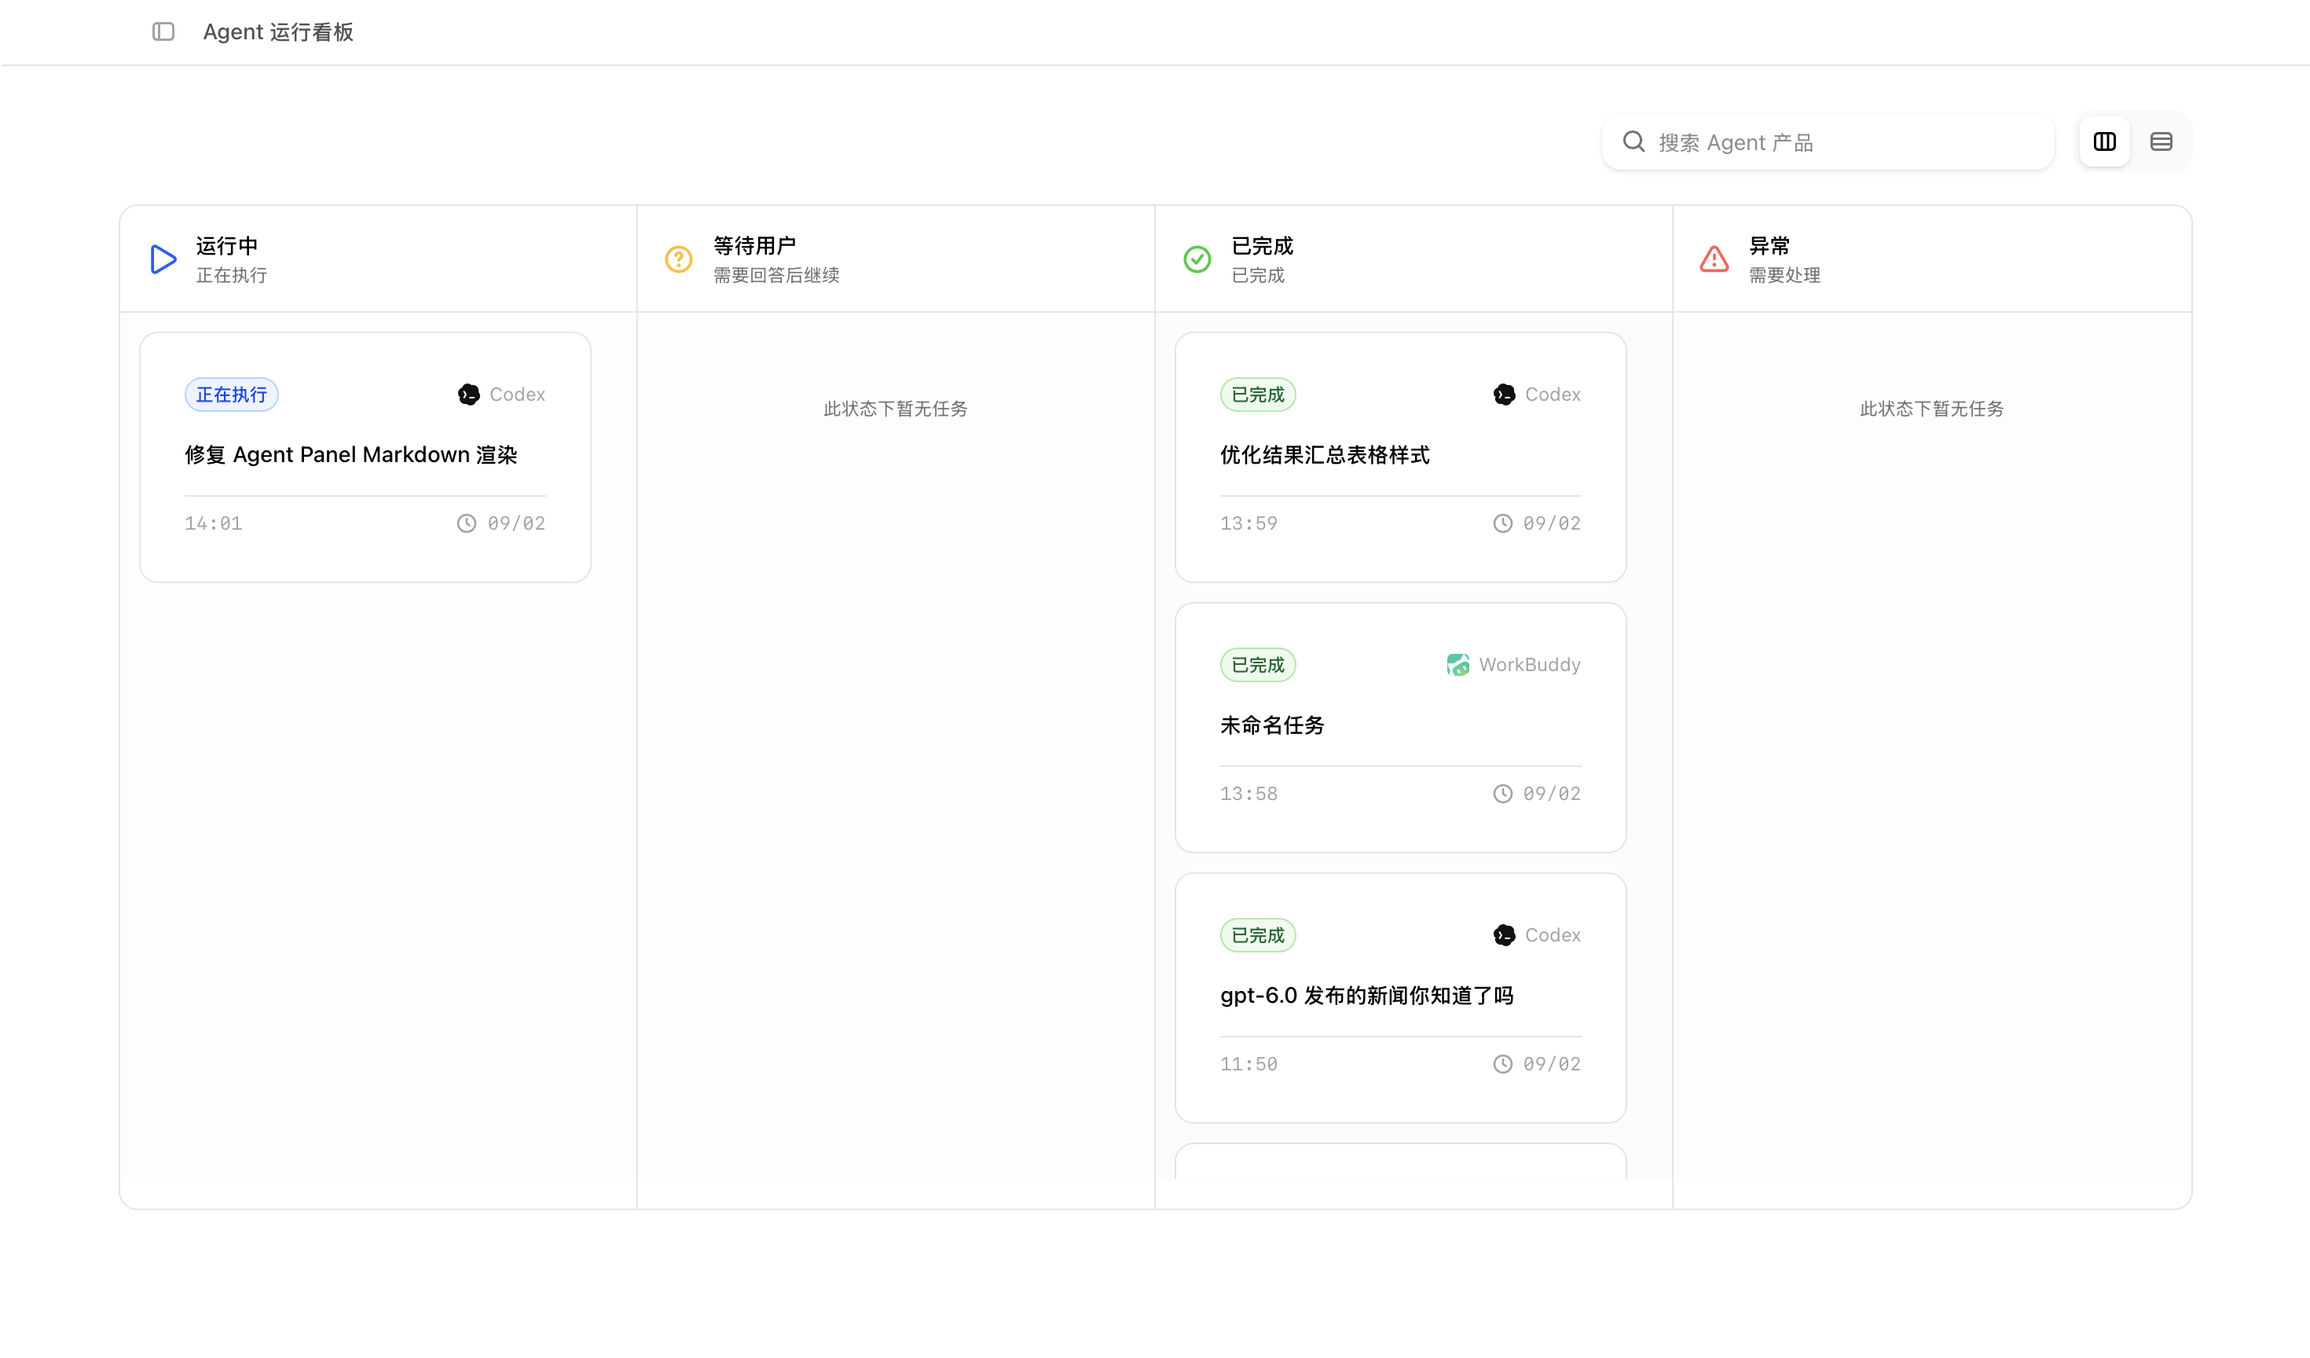
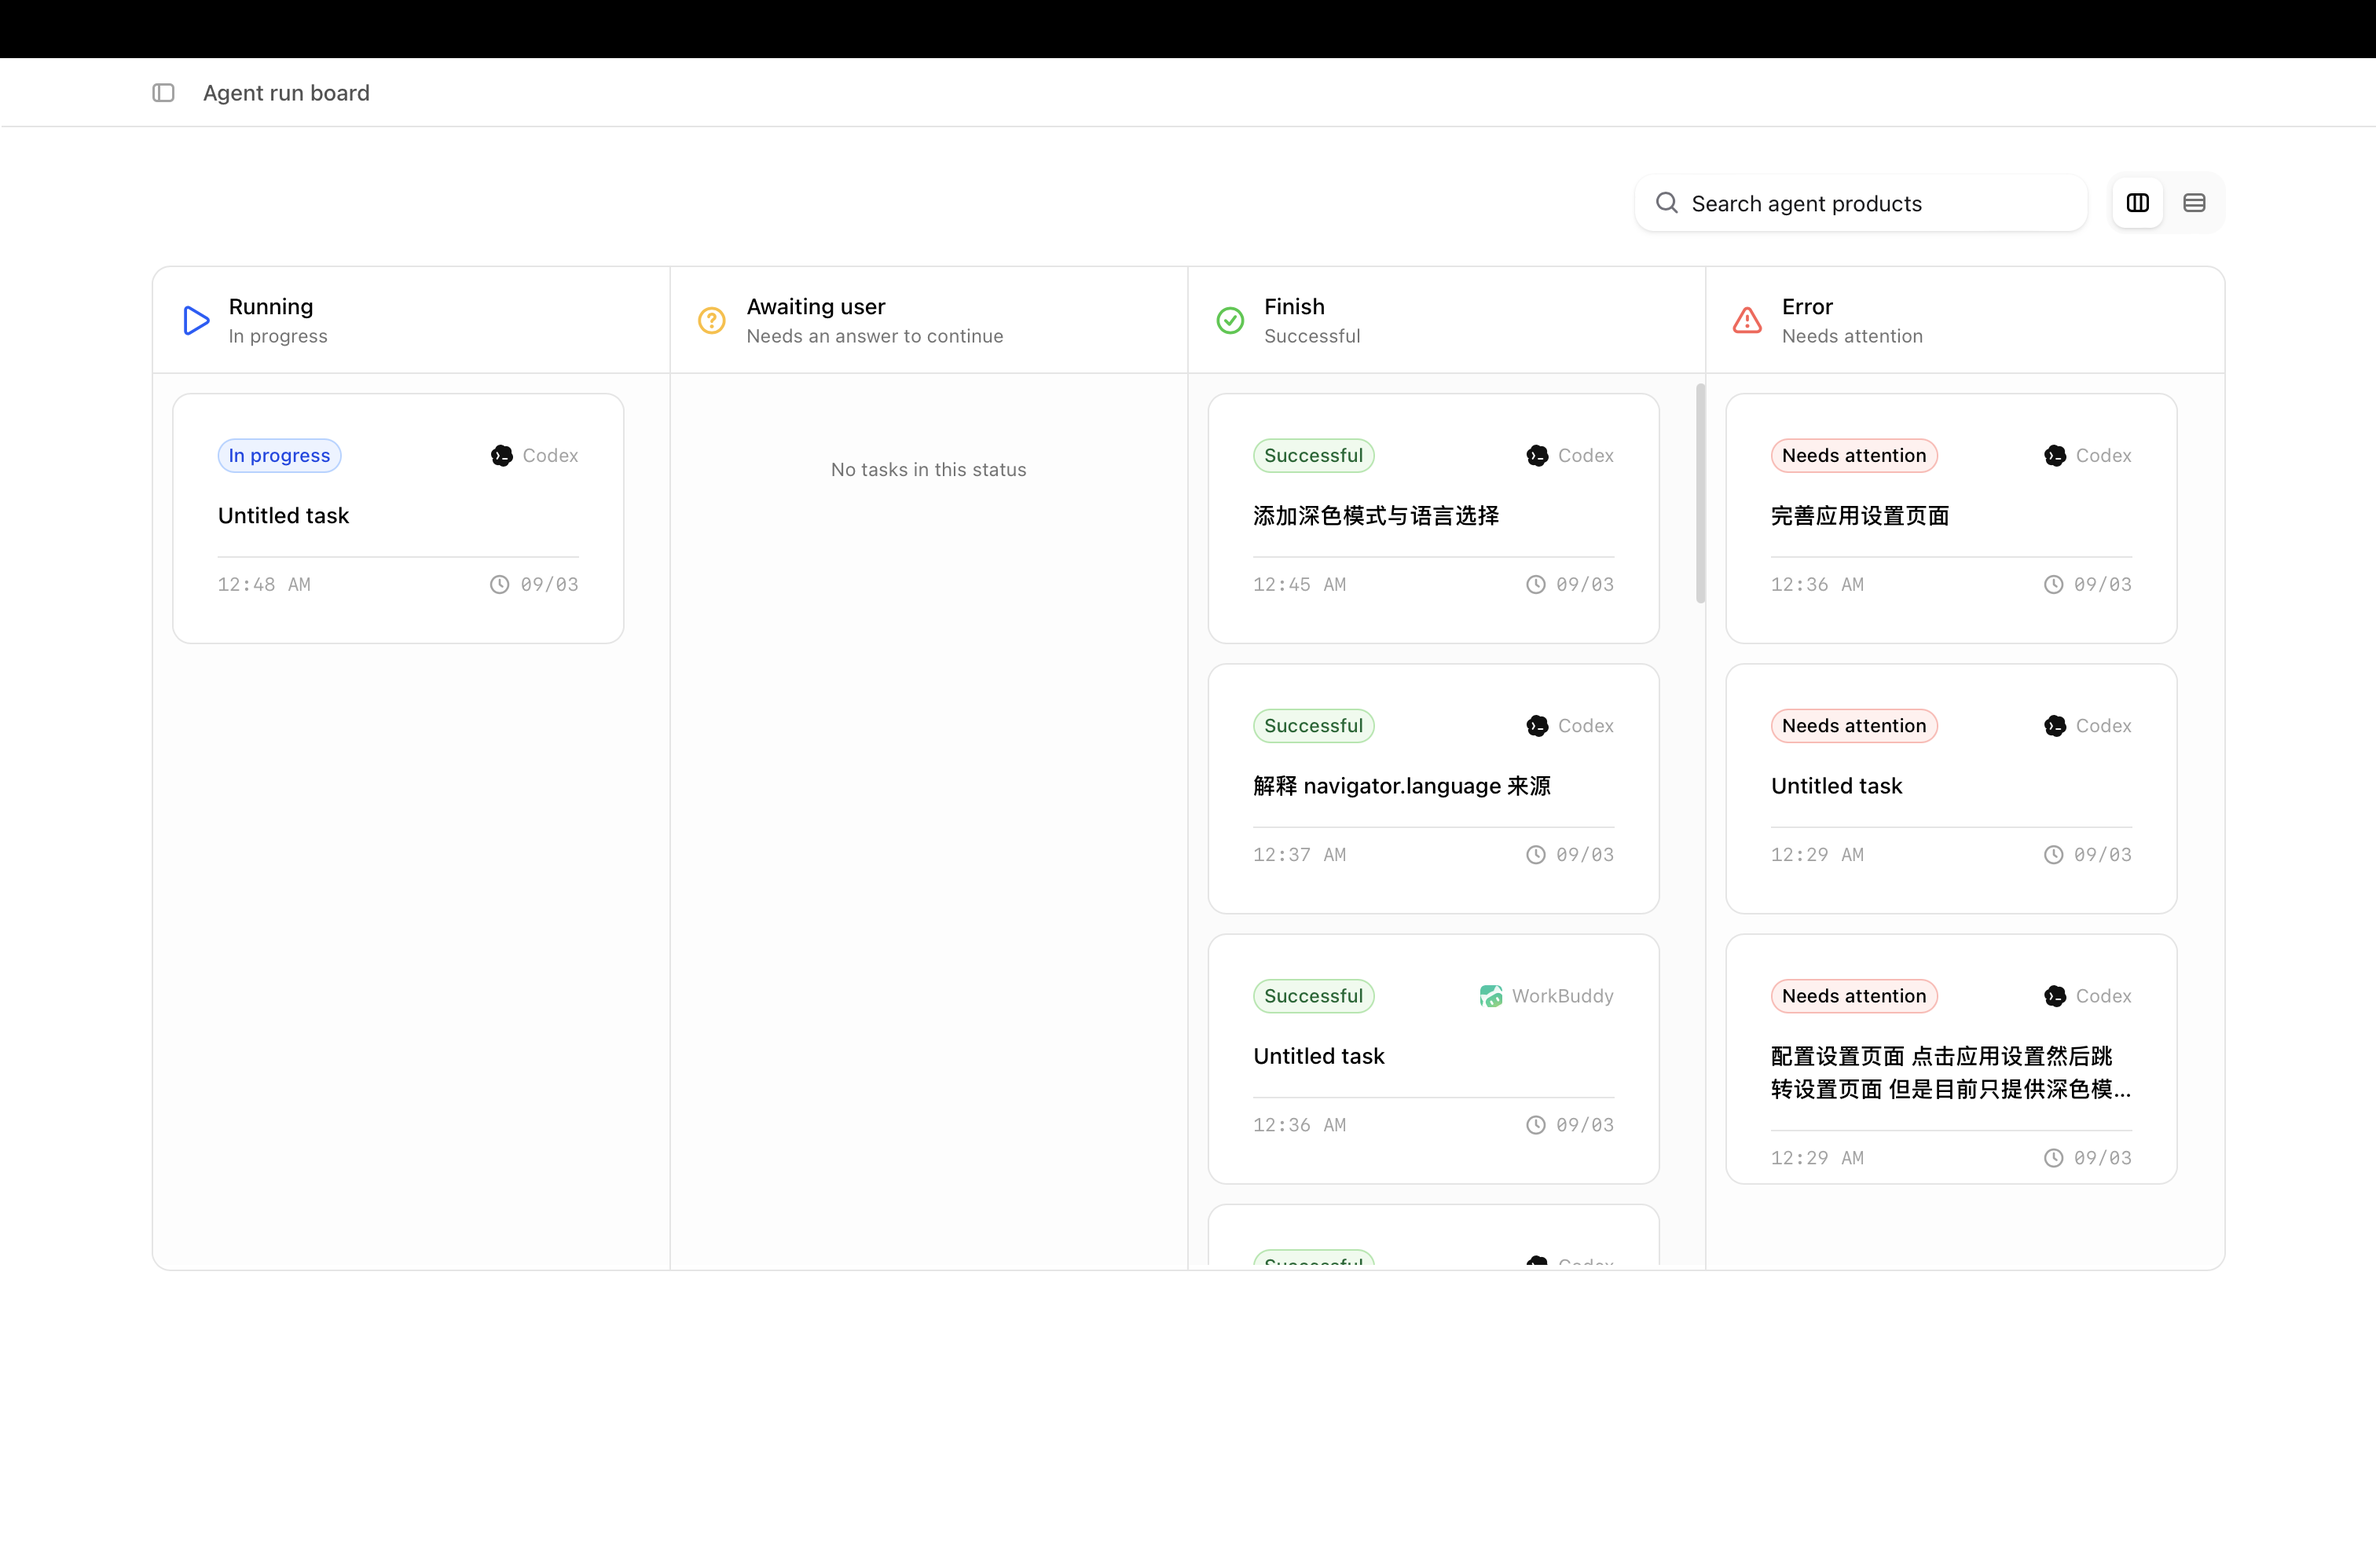
docs(readme): showcase monitoring and results
- add run board and result summary screenshots
- keep English and Chinese product previews aligned
- describe the new views with accessible captions

diff --git a/README.md b/README.md
@@ -39,6 +39,22 @@
   </tr>
   <tr>
     <td width="50%" align="center">
+      <a href="./assets/page4.png">
+        <img src="./assets/page4.png" alt="Agent run board in Theoria" width="100%" />
+      </a>
+      <br />
+      <sub>Monitor every Agent task at a glance with searchable lifecycle columns</sub>
+    </td>
+    <td width="50%" align="center">
+      <a href="./assets/page5.png">
+        <img src="./assets/page5.png" alt="Agent result summary in Theoria" width="100%" />
+      </a>
+      <br />
+      <sub>Compare completion, latency, token usage, tool calls, and file changes side by side</sub>
+    </td>
+  </tr>
+  <tr>
+    <td width="50%" align="center">
       <a href="./assets/page2.png">
         <img src="./assets/page2.png" alt="Skill management in Theoria" width="100%" />
       </a>

diff --git a/README.zh-CN.md b/README.zh-CN.md
@@ -39,6 +39,22 @@
   </tr>
   <tr>
     <td width="50%" align="center">
+      <a href="./assets/page4.png">
+        <img src="./assets/page4.png" alt="Theoria Agent 运行看板" width="100%" />
+      </a>
+      <br />
+      <sub>通过可搜索的状态看板，集中掌握每个 Agent 任务的运行进度</sub>
+    </td>
+    <td width="50%" align="center">
+      <a href="./assets/page5.png">
+        <img src="./assets/page5.png" alt="Theoria Agent 结果汇总" width="100%" />
+      </a>
+      <br />
+      <sub>横向对比完成状态、耗时、Token 用量、工具调用与文件变更</sub>
+    </td>
+  </tr>
+  <tr>
+    <td width="50%" align="center">
       <a href="./assets/page2.png">
         <img src="./assets/page2.png" alt="Theoria Skills 管理界面" width="100%" />
       </a>
